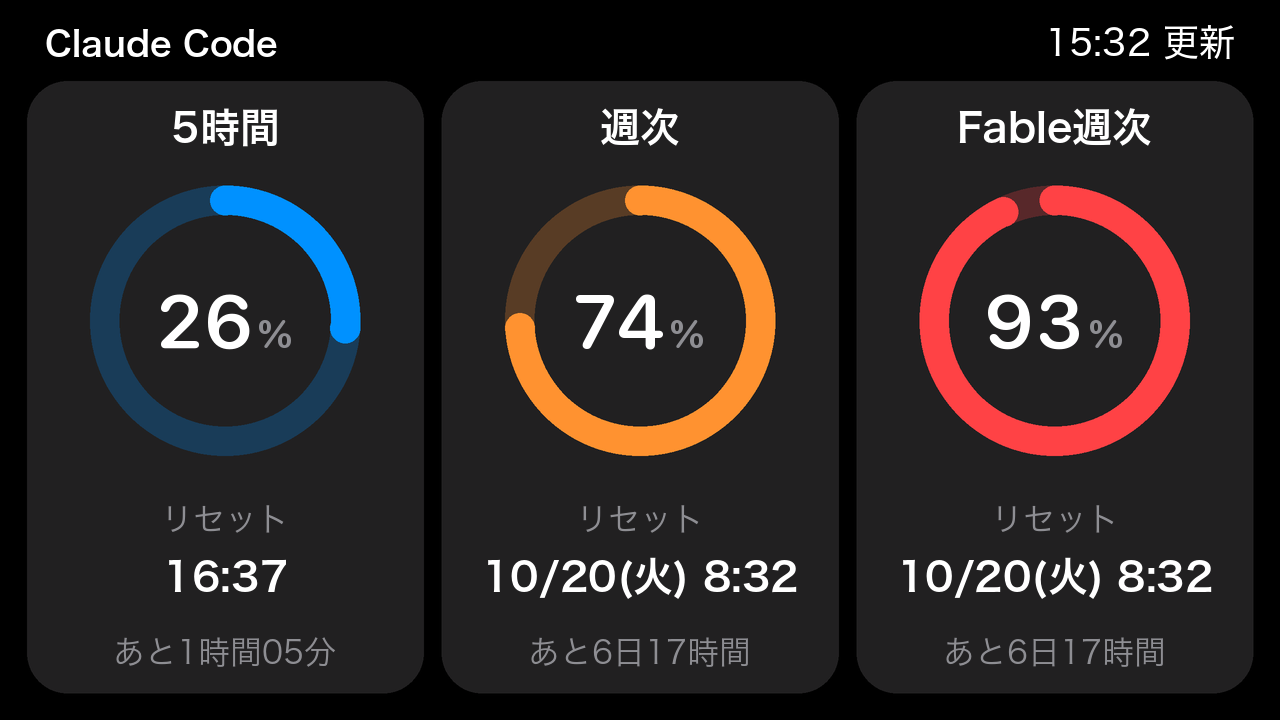
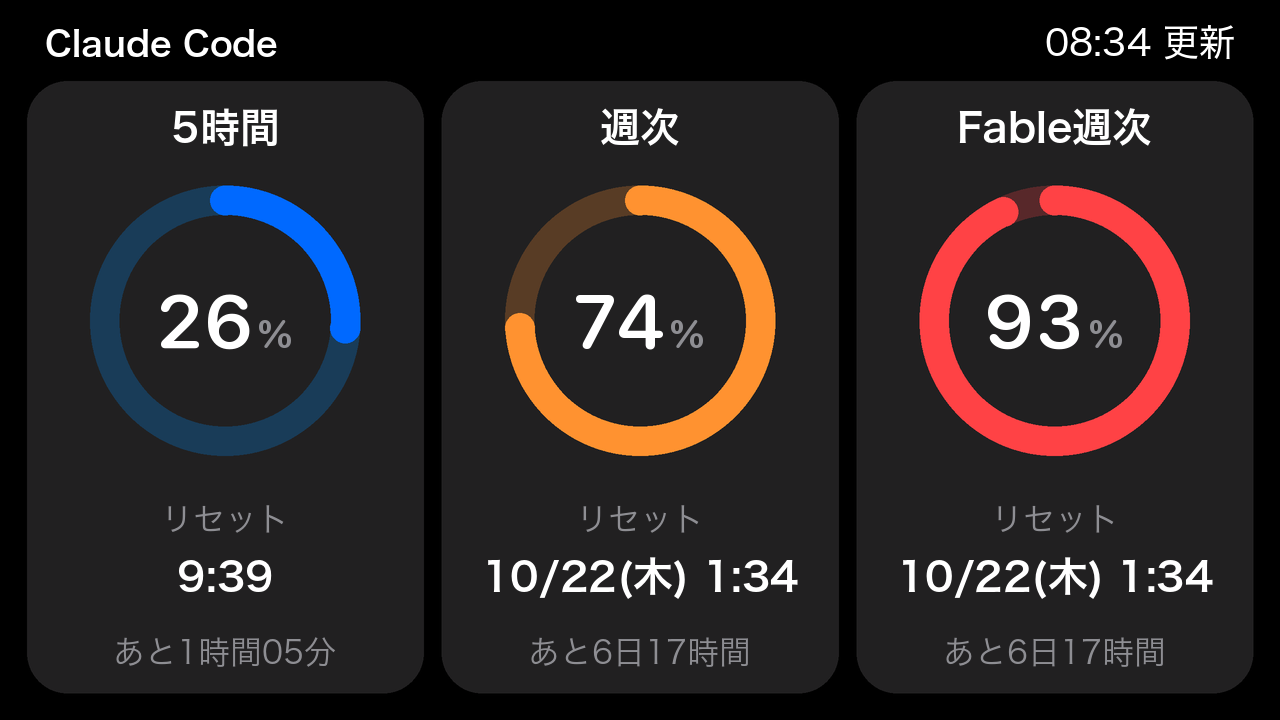
fix: 5.2 インチのリングの弧の青を濃い青（0, 105, 255）にする
5.2 インチのパネルでは、3.5 インチと同じ青の弧が暗く見えたため（ユーザーが実機で候補から選んだ）。
地の色と 3.5 インチ（480×320）の画像は変えていない。

diff --git a/tests/test_gauge.py b/tests/test_gauge.py
@@ -110,12 +110,27 @@ class LargeGaugeTest(unittest.TestCase):
         image = gauge.render(snapshot(26, 74, 93), NOW, size=self.SIZE)
         _label, ring_y, *_rest, content_height = gauge.content_rows(self.LAYOUT)
         radius, width = self.LAYOUT.cpx(gauge.RING_RADIUS), self.LAYOUT.cpx(gauge.RING_WIDTH)
-        for index, expected in enumerate((gauge.BLUE, gauge.ORANGE, gauge.RED)):
+        for index, expected in enumerate((self.LAYOUT.blue, gauge.ORANGE, gauge.RED)):
             left, top, right, bottom = gauge.card_box(index, self.LAYOUT)
             x, y = (left + right) / 2 + radius - width / 2, top + (bottom - top - content_height) / 2 + ring_y
             pixel = image.getpixel((math.floor(x), math.floor(y)))
             with self.subTest(index=index):
                 self.assertTrue(all(abs(a - b) <= 12 for a, b in zip(pixel, expected)), pixel)
+
+    def test_arc_blue_is_deeper_but_track_is_unchanged(self):
+        # 5.2 インチのパネルでは 3.5 インチと同じ青の弧が暗く見えたので、弧だけ濃い青にした（2026-10-15）。3.5 インチは変えない
+        self.assertEqual(self.LAYOUT.blue, (0, 105, 255))
+        self.assertEqual(gauge.layout_for((480, 320)).blue, gauge.BLUE)
+        image = gauge.render(snapshot(26, 74, 93), NOW, size=self.SIZE)
+        _label, ring_y, *_rest, content_height = gauge.content_rows(self.LAYOUT)
+        radius, width = self.LAYOUT.cpx(gauge.RING_RADIUS), self.LAYOUT.cpx(gauge.RING_WIDTH)
+        left, top, right, bottom = gauge.card_box(0, self.LAYOUT)
+        y = top + (bottom - top - content_height) / 2 + ring_y
+        arc = image.getpixel((math.floor((left + right) / 2 + radius - width / 2), math.floor(y)))  # 3 時: 26% の弧の中
+        track = image.getpixel((math.floor((left + right) / 2 - radius + width / 2), math.floor(y)))  # 9 時: 地
+        self.assertTrue(all(abs(a - b) <= 2 for a, b in zip(arc, self.LAYOUT.blue)), arc)
+        expected = gauge._mix(gauge.BLUE, gauge.CARD, gauge.TRACK_MIX)
+        self.assertTrue(all(abs(a - b) <= 2 for a, b in zip(track, expected)), track)
 
     def test_content_is_enlarged_and_still_fits(self):
         # 5.2 インチは余白が大きかったので、カードの中身を大きくした（2026-10-13）。3.5 インチは変えない
@@ -199,7 +214,7 @@ class GeminiGaugeTest(unittest.TestCase):
 
     def test_lower_rings_follow_severity(self):
         image = gauge.render_with_gemini(snapshot(26, 74, 93), gemini(12, 92), NOW, size=self.SIZE)
-        for index, expected in enumerate((gauge.BLUE, gauge.RED)):
+        for index, expected in enumerate((gauge.layout_for(self.SIZE).blue, gauge.RED)):
             with self.subTest(index=index):
                 self.assertTrue(near(image.getpixel(self.lower_ring_top(index)), expected))
 

diff --git a/claude_usage_display/gauge.py b/claude_usage_display/gauge.py
@@ -92,6 +92,7 @@ class Layout:
     content: float = 1.0
     stamp: int = FOOTNOTE
     quiet_remain: bool = False  # 残り時間を「リセット」の見出しと同じ灰色の小さい字にする
+    blue: tuple[int, int, int] = BLUE  # リングの弧の青（地は BLUE から作る）
 
     @property
     def k(self) -> float:
@@ -127,7 +128,9 @@ class Layout:
 # - stamp: 3.5 インチのサーバー監視の画面（縦置き）の名前 15・時刻 16 と同じ比にする（2026-10-13 ユーザーの指示）
 # - quiet_remain: 「あと…」を「リセット」の見出しと同じ書き方にする（2026-10-13、ユーザーが見本の 2 案から選んだ）。
 #   3.5 インチでは「薄くて見えない」として白にした（2026-10-09）うえ、12 ピクセルの W3 は「4」の横棒が消えるので変えない
-LARGE = {(1280, 720): {"content": 1.2, "stamp": 16, "quiet_remain": True}}
+# - blue: 5.2 インチのパネルでは、3.5 インチと同じ青の弧が暗く見えたので、緑を減らした濃い青にした
+#   （2026-10-15、ユーザーが実機で候補 5 つから選んだ）。5.2 インチは PNG で送るので、RGB565 に落ちない
+LARGE = {(1280, 720): {"content": 1.2, "stamp": 16, "quiet_remain": True, "blue": (0, 105, 255)}}
 
 
 def layout_for(size: tuple[int, int]) -> Layout:
@@ -226,6 +229,8 @@ class _Shapes:
         radius, ring_width = self.layout.px(radius), self.layout.px(ring_width)
         color = BLUE if percent is None else tint(percent)
         track = _mix(SECONDARY if percent is None else color, CARD, TRACK_MIX)
+        if color == BLUE:
+            color = self.layout.blue
         box = self._box(cx - radius, cy - radius, cx + radius, cy + radius)
         width = round(ring_width * self.scale)
         self.draw.ellipse(box, outline=track, width=width)
